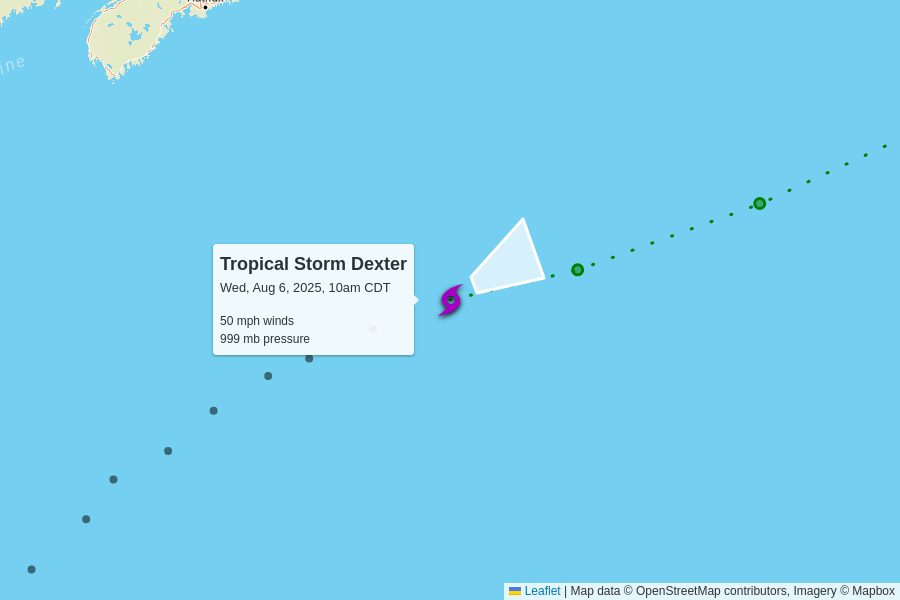
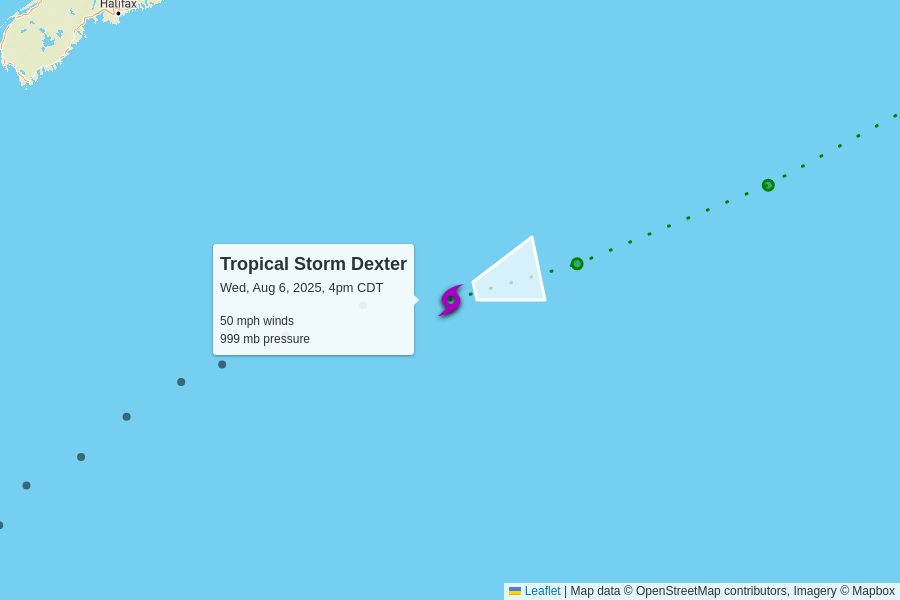
automatic update

diff --git a/docs/index.html b/docs/index.html
@@ -102,7 +102,7 @@
         <td colspan="6" class="storm category-0" >
           <h2>
             Tropical Storm Dexter
-            <p class="updated">last updated <span data-time>2025-08-06T15:00:00.000Z</span></p>
+            <p class="updated">last updated <span data-time>2025-08-06T21:00:00.000Z</span></p>
           </h2>
         </td>
       </tr>
@@ -117,12 +117,12 @@
       </tr>
       <tr>
         <td class="spacer"></td>
-        <td>50 mph<br>+5 mph since last update</td>
-        <td>999 mb<br>-4 mb since last update</td>
+        <td>50 mph<br>0 mph since last update</td>
+        <td>999 mb<br>0 mb since last update</td>
         <td>
-          15 mph to the east-northeast
+          16 mph to the east-northeast
           <br/>
-          <span style="display: inline-block; font-size: 1.5em; transform: rotate(65deg);">↑</span>
+          <span style="display: inline-block; font-size: 1.5em; transform: rotate(75deg);">↑</span>
         </td>
         <td><a href="https://raw.githubusercontent.com/mgwalker/atlantic-hurricanes/main/data/csv/AL042025.csv">AL042025.csv</a></td>
         <td><a href="https://www.nhc.noaa.gov/archive/2025/DEXTER.shtml?">NHC advisories</a></td>
